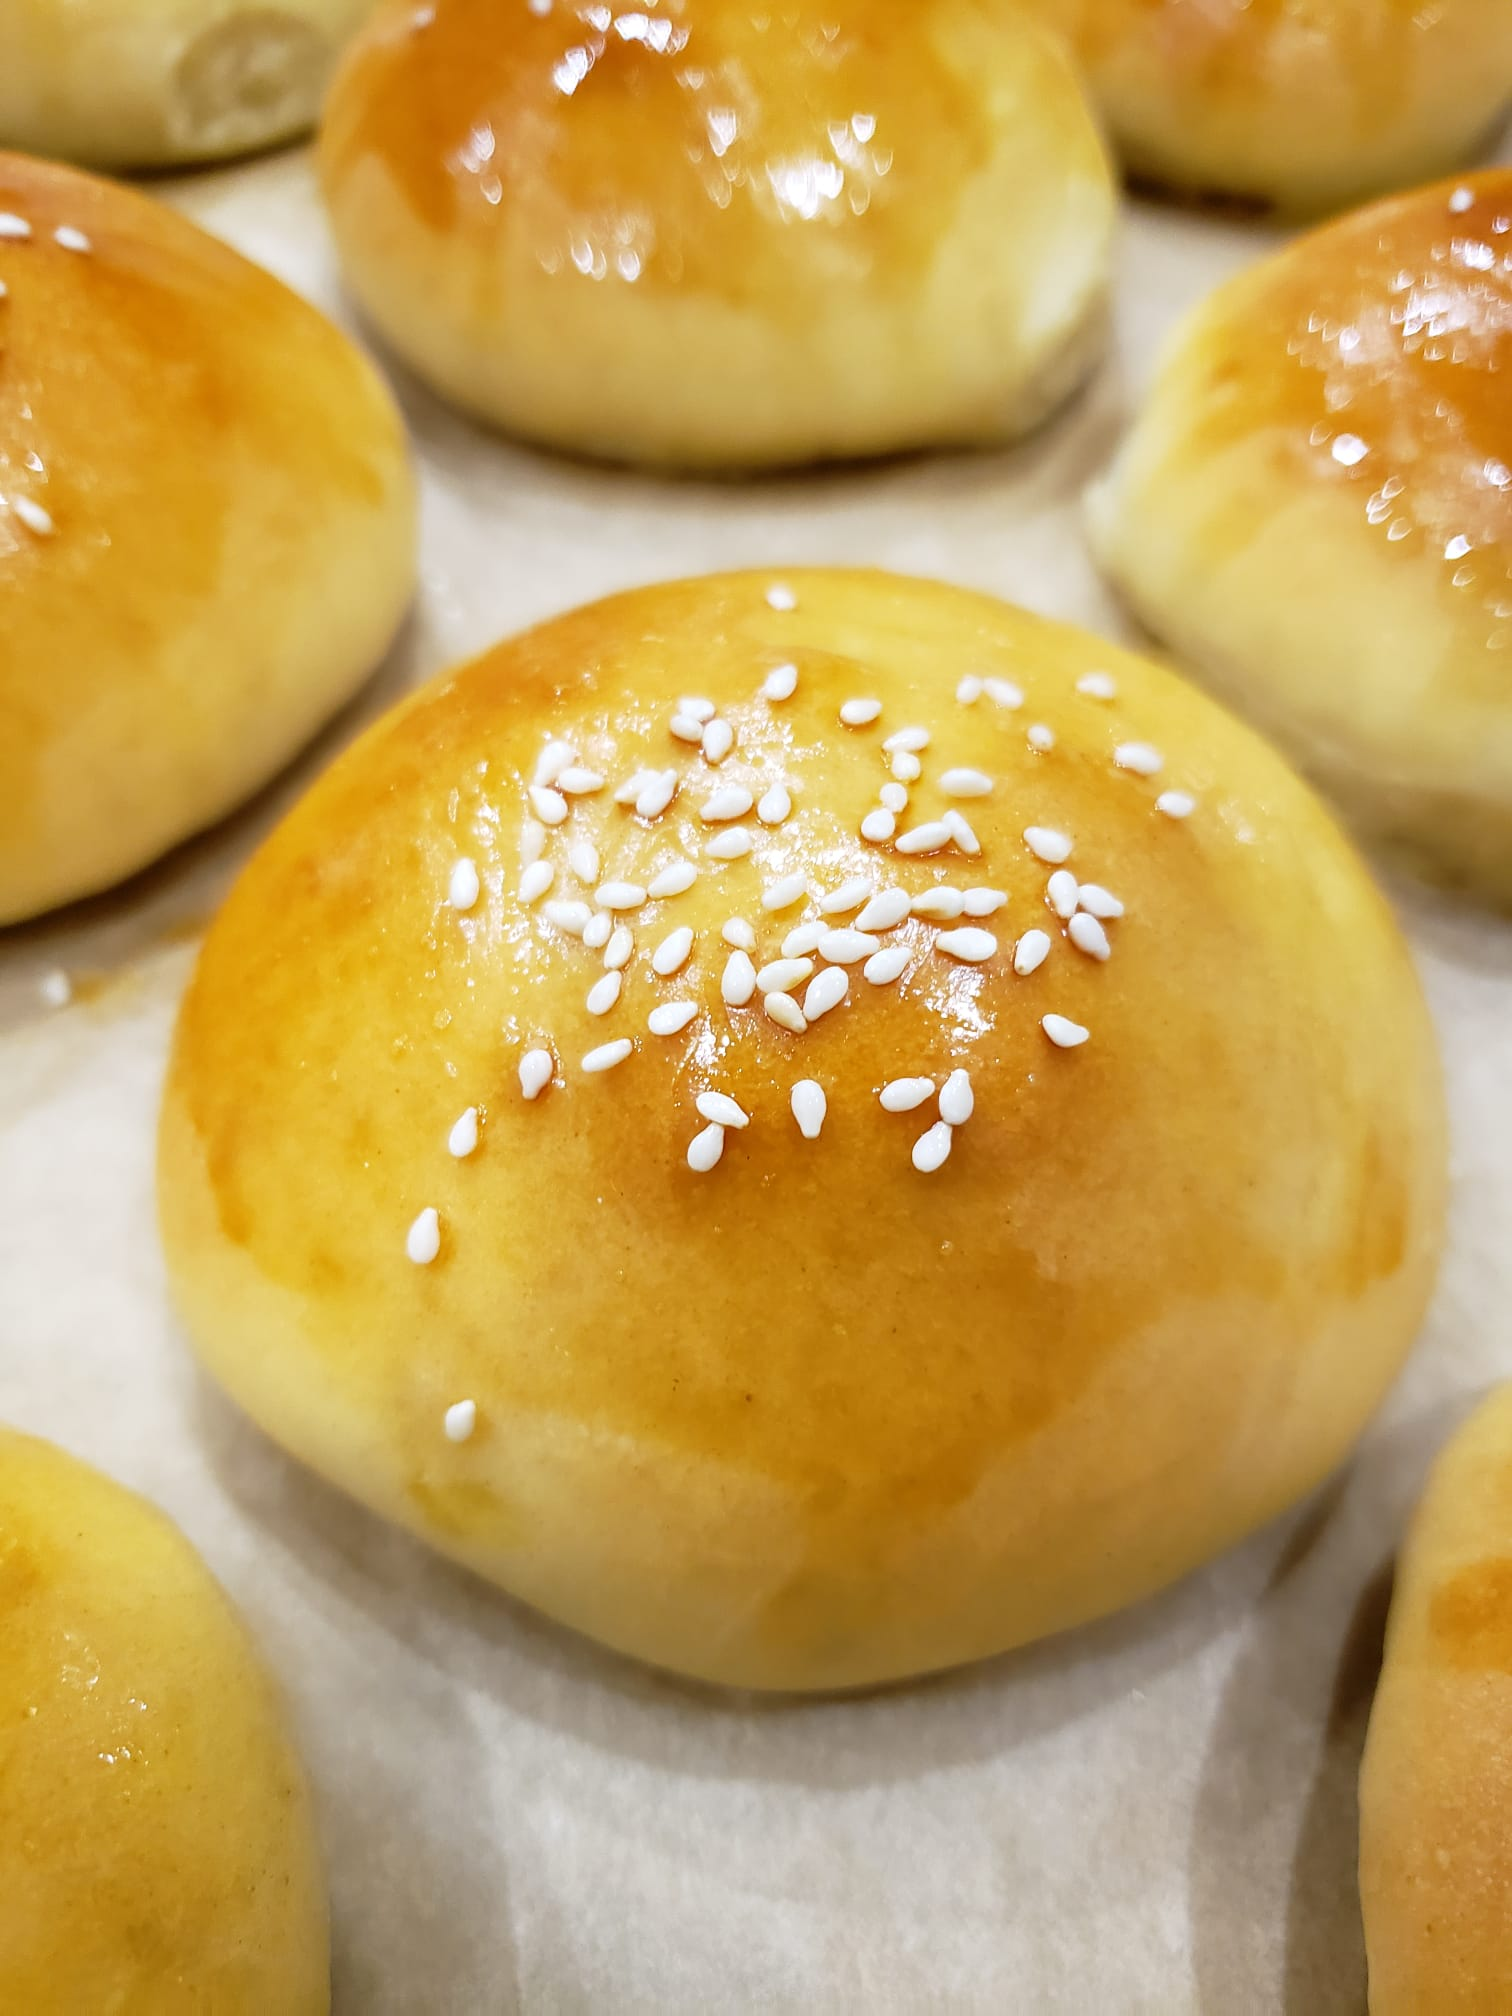
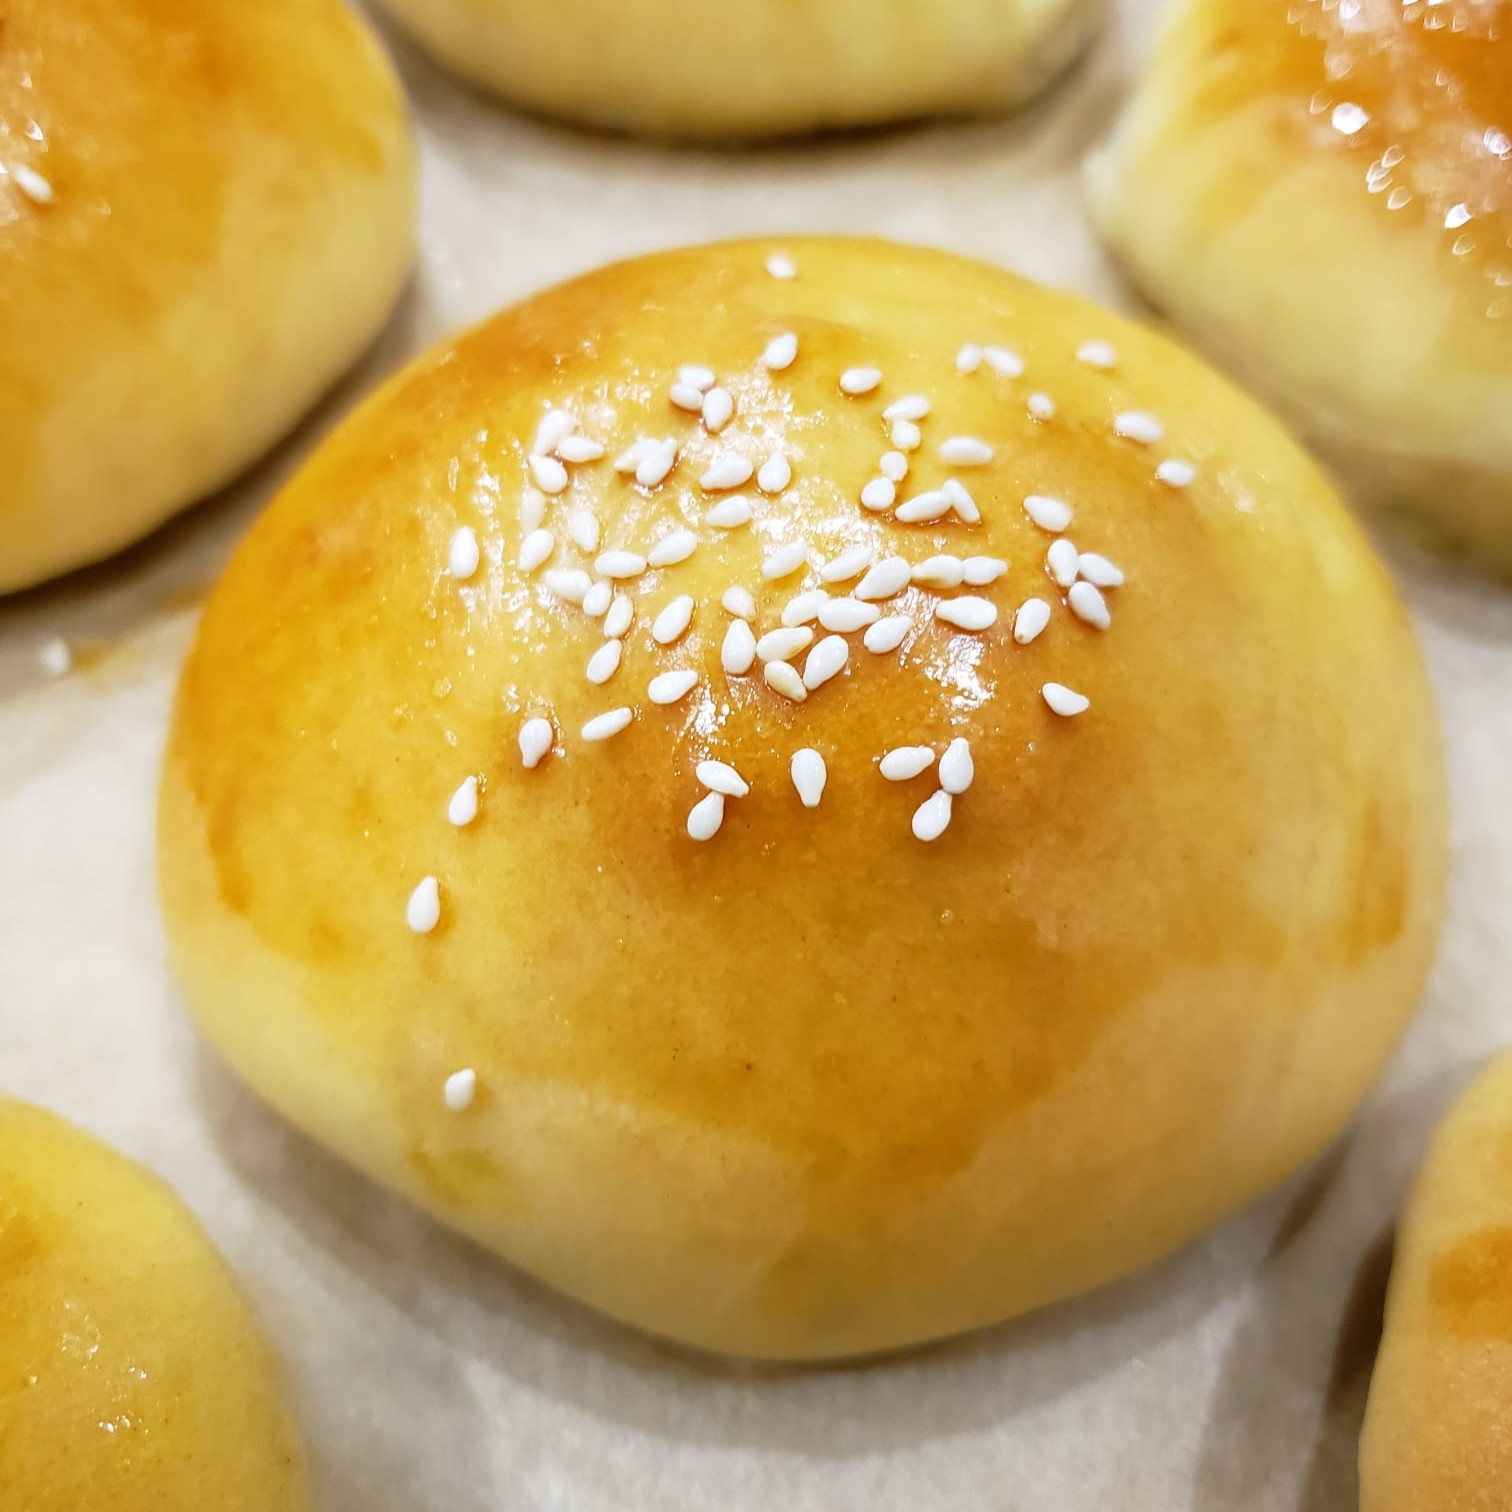
resized cover photo to better fit layout

diff --git a/src/assets/css/index.css b/src/assets/css/index.css
@@ -111,7 +111,7 @@ input:focus::placeholder{
   max-height: 75vh;
   overflow: hidden;
   object-fit: cover;
-  /* object-position: 5% 5%; */
+  object-position: 50% 50%;
   /* height: device-height; */
   pointer-events: none;
   background-color: #282c34;
